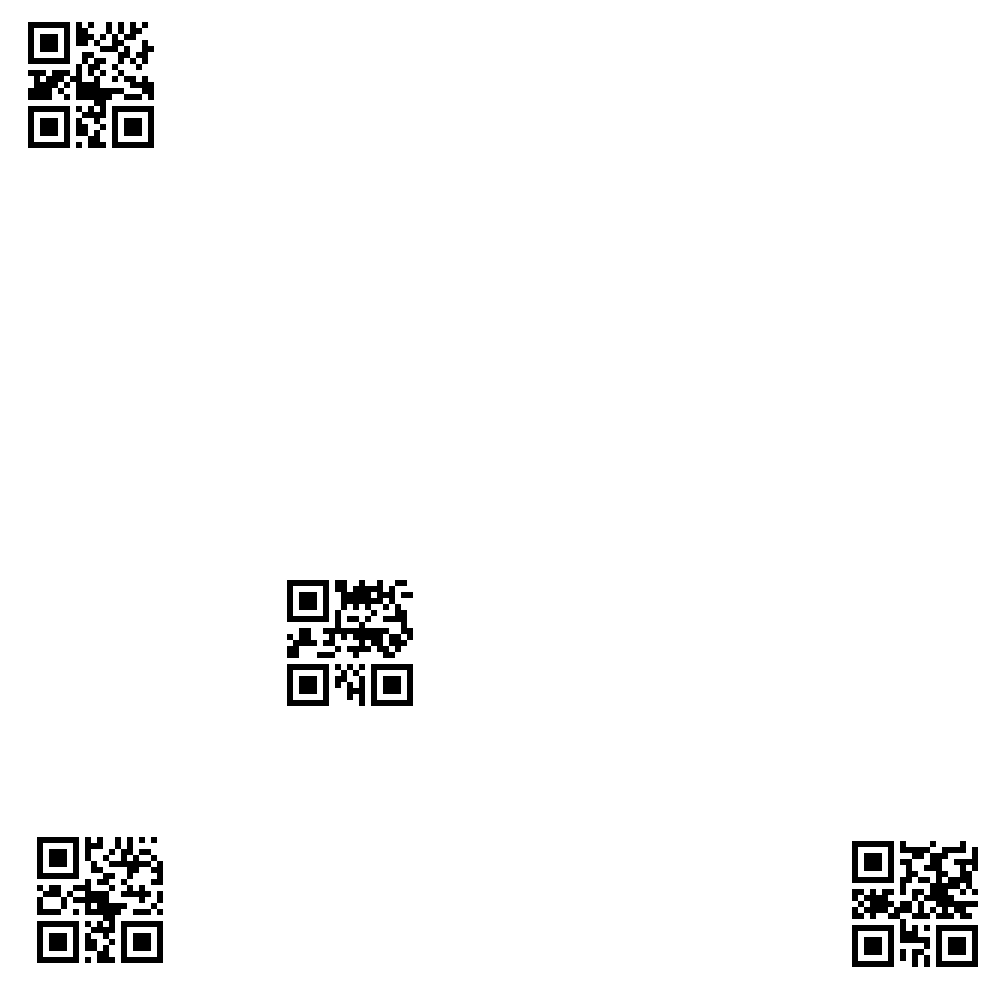
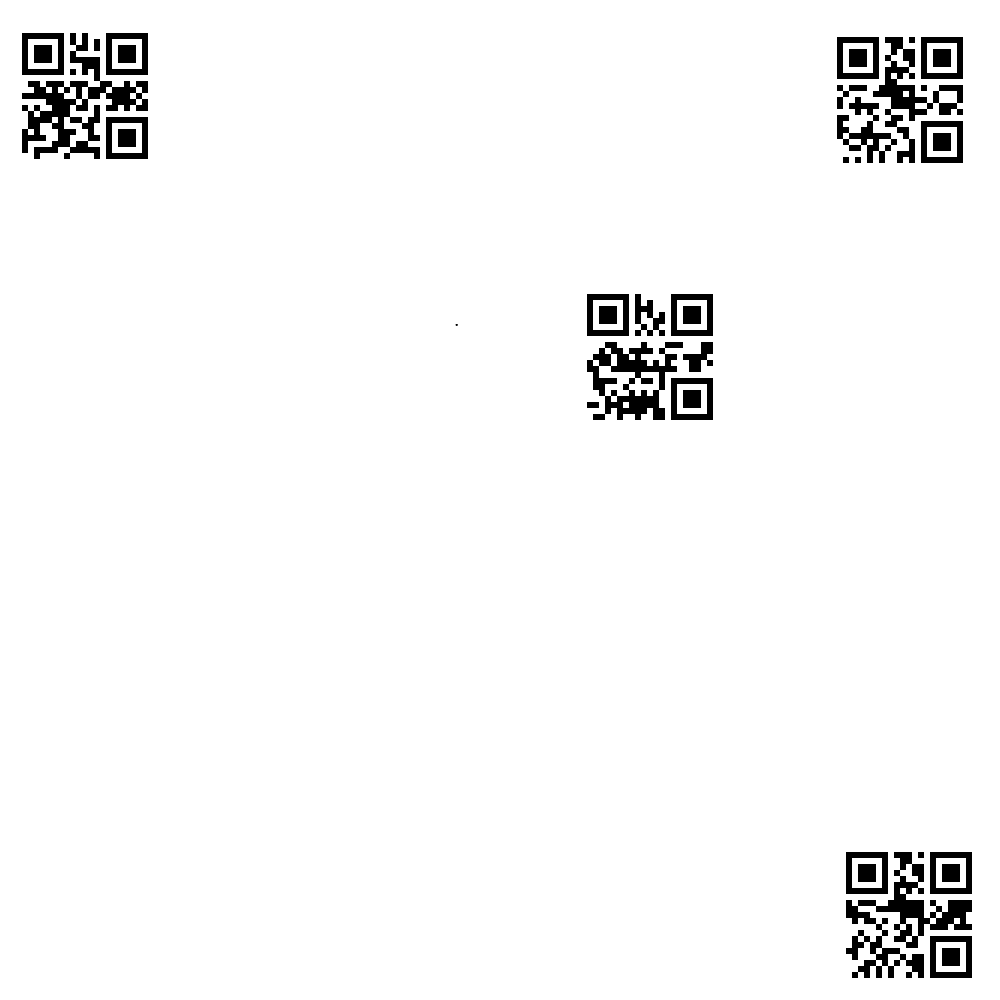
Reverted ZxingAdapter to reflect image. Retested.

diff --git a/libraries/ZxingAdapter/src/ZxingAdapter/ZxingAdapter.java b/libraries/ZxingAdapter/src/ZxingAdapter/ZxingAdapter.java
@@ -138,7 +138,7 @@ public class ZxingAdapter {
 					targetHeight, offsetX, offsetY);
 		} catch (Exception e) {
 			decalibrate();
-			// e.printStackTrace();
+			//e.printStackTrace();
 		}
 	}
 
@@ -185,15 +185,18 @@ public class ZxingAdapter {
 			for (Result result : results) {
 				if (result.getText().equals(TOPLEFT)) {
 					topLeftFound = true;
-					topLeftX = result.getResultPoints()[1].getX();
+					topLeftX = reflect(result.getResultPoints()[1].getX(),
+							width);
 					topLeftY = result.getResultPoints()[1].getY();
 				} else if (result.getText().equals(TOPRIGHT)) {
 					topRightFound = true;
-					topRightX = result.getResultPoints()[2].getX();
+					topRightX = reflect(result.getResultPoints()[2].getX(),
+							width);
 					topRightY = result.getResultPoints()[2].getY();
 				} else if (result.getText().equals(BOTTOMLEFT)) {
 					bottomLeftFound = true;
-					bottomLeftX = result.getResultPoints()[0].getX();
+					bottomLeftX = reflect(result.getResultPoints()[0].getX(),
+							width);
 					bottomLeftY = result.getResultPoints()[0].getY();
 				}
 			}
@@ -249,7 +252,7 @@ public class ZxingAdapter {
 					+ ")");
 
 		} catch (Exception e) {
-			// e.printStackTrace();
+			//e.printStackTrace();
 			// Create uncalibrated reader
 			decalibrate();
 		}
@@ -291,7 +294,7 @@ public class ZxingAdapter {
 					image.getHeight(), null, 0, 1);
 			return readQRCode(pixels, image.getWidth(), image.getHeight());
 		} catch (Exception e) {
-			// e.printStackTrace();
+			//e.printStackTrace();
 			return null;
 		}
 	}
@@ -325,7 +328,7 @@ public class ZxingAdapter {
 			return readMultipleQRCode(pixels, image.getWidth(),
 					image.getHeight());
 		} catch (Exception e) {
-			// e.printStackTrace();
+			//e.printStackTrace();
 			return null;
 		}
 	}
@@ -375,8 +378,8 @@ public class ZxingAdapter {
 				if (!readOutOfBounds) {
 					// If point is outside calibration area, skip
 					for (ResultPoint point : results[i].getResultPoints()) {
-						if (point.getX() < sourceXMin
-								|| point.getX() > sourceXMax
+						if (reflect(point.getX(), width) < sourceXMin
+								|| reflect(point.getX(), width) > sourceXMax
 								|| point.getY() < sourceYMin
 								|| point.getY() > sourceYMax) {
 							continue readerLoop;
@@ -385,11 +388,14 @@ public class ZxingAdapter {
 				}
 
 				// Get source (x,y) position
-				sourceTopLeftX = results[i].getResultPoints()[1].getX();
+				sourceTopLeftX = reflect(
+						results[i].getResultPoints()[1].getX(), width);
 				sourceTopLeftY = results[i].getResultPoints()[1].getY();
-				sourceTopRightX = results[i].getResultPoints()[2].getX();
+				sourceTopRightX = reflect(
+						results[i].getResultPoints()[2].getX(), width);
 				sourceTopRightY = results[i].getResultPoints()[2].getY();
-				sourceBottomLeftX = results[i].getResultPoints()[0].getX();
+				sourceBottomLeftX = reflect(
+						results[i].getResultPoints()[0].getX(), width);
 				sourceBottomLeftY = results[i].getResultPoints()[0].getY();
 
 				// Get scaled (x,y) position and angle
@@ -409,7 +415,7 @@ public class ZxingAdapter {
 			return qrCodes.toArray(new QRCode[qrCodes.size()]);
 
 		} catch (Exception e) {
-			// e.printStackTrace();
+			//e.printStackTrace();
 		}
 
 		// Return size 0 array if reading failed
@@ -493,5 +499,9 @@ public class ZxingAdapter {
 		targetPoint[1] = rotatedPointY * calibrationRatioY + offsetY;
 
 		return targetPoint;
+	}
+
+	private float reflect(float x, int width) {
+		return width - x;
 	}
 }

diff --git a/libraries/ZxingAdapter/src/ZxingAdapterTest/ZxingAdapterTest.java b/libraries/ZxingAdapter/src/ZxingAdapterTest/ZxingAdapterTest.java
@@ -38,7 +38,7 @@ public class ZxingAdapterTest {
 		*/
 		
 		// Read the QR code image file
-		adapter.calibrate(filePath, 100, 100, 10, 10);
+		adapter.calibrate(filePath, 100, 100, 0, 0);
 		QRCode[] qrCodes = adapter.readMultipleQRCode(filePath);
 		for (QRCode qrCode : qrCodes) {
 			System.out.println(qrCode);
